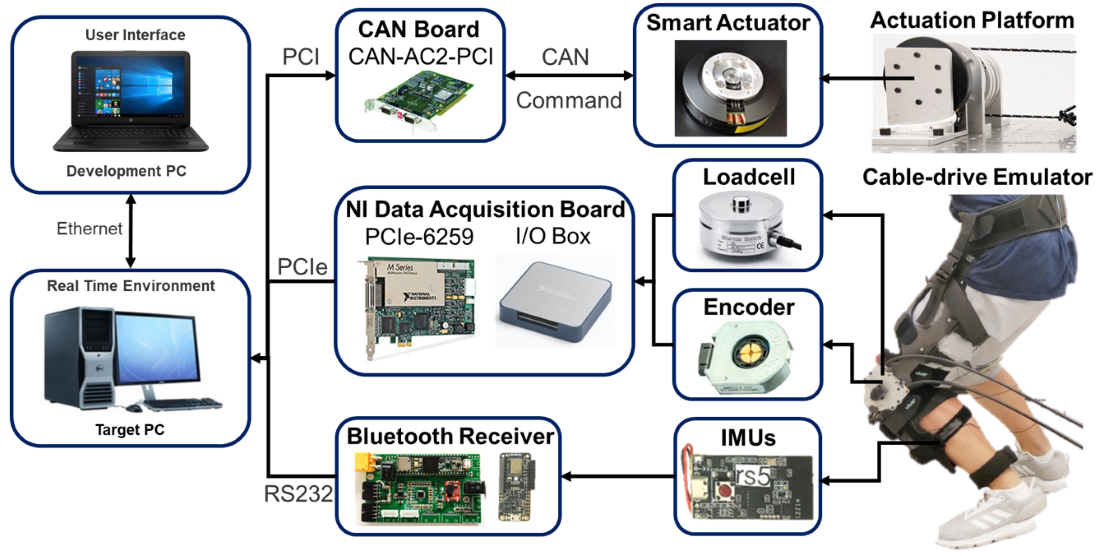
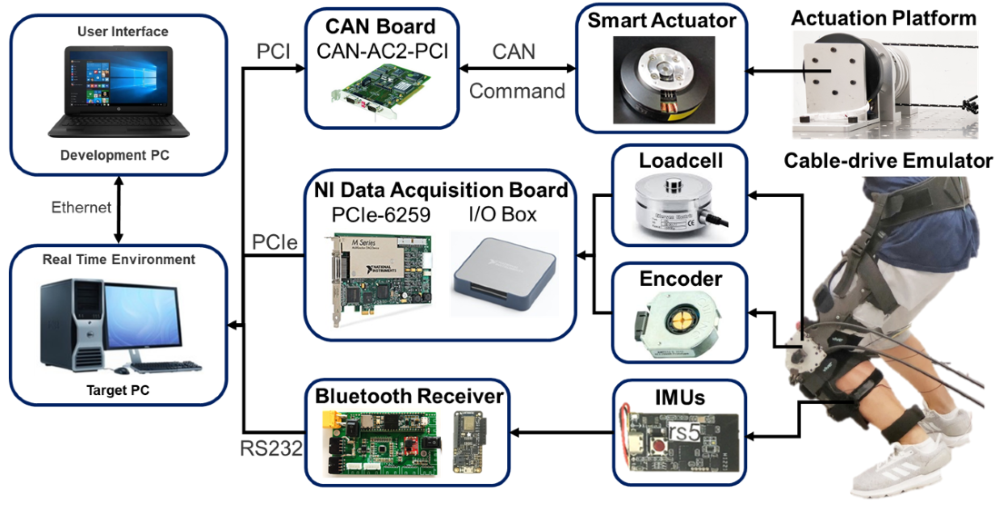
resize pic

diff --git a/about.html b/about.html
@@ -78,7 +78,7 @@
           </li>
           <!--          <li><a href="faq.html">FAQ</a></li>-->
           <!-- <li><a href="blog.html">Blog</a></li> -->
-          <li><a href="contact.html">Contact</a></li>
+<!--          <li><a href="contact.html">Contact</a></li>-->
 <!--          <li><a href="#" class="youtube"><i class="icofont-youtube"></i></a>-->
         </ul>
       </nav><!-- .nav-menu -->

diff --git a/team.html b/team.html
@@ -78,7 +78,7 @@
           </li>
           <!--          <li><a href="faq.html">FAQ</a></li>-->
           <!-- <li><a href="blog.html">Blog</a></li> -->
-          <li><a href="contact.html">Contact</a></li>
+<!--          <li><a href="contact.html">Contact</a></li>-->
 <!--          <li><a href="#" class="youtube"><i class="icofont-youtube"></i></a>-->
         </ul>
       </nav><!-- .nav-menu -->

diff --git a/IMU-sensors.html b/IMU-sensors.html
@@ -86,7 +86,7 @@
           </li>
           <!--          <li><a href="faq.html">FAQ</a></li>-->
           <!-- <li><a href="blog.html">Blog</a></li> -->
-          <li><a href="contact.html">Contact</a></li>
+<!--          <li><a href="contact.html">Contact</a></li>-->
 
         </ul>
       </nav><!-- .nav-menu -->

diff --git a/Loadcell.html b/Loadcell.html
@@ -86,7 +86,7 @@
           </li>
           <!--          <li><a href="faq.html">FAQ</a></li>-->
           <!-- <li><a href="blog.html">Blog</a></li> -->
-          <li><a href="contact.html">Contact</a></li>
+<!--          <li><a href="contact.html">Contact</a></li>-->
 
         </ul>
       </nav><!-- .nav-menu -->

diff --git a/cable-actuator.html b/cable-actuator.html
@@ -86,7 +86,7 @@
           </li>
           <!--          <li><a href="faq.html">FAQ</a></li>-->
           <!-- <li><a href="blog.html">Blog</a></li> -->
-          <li><a href="contact.html">Contact</a></li>
+<!--          <li><a href="contact.html">Contact</a></li>-->
 
         </ul>
       </nav><!-- .nav-menu -->

diff --git a/controller-electronics.html b/controller-electronics.html
@@ -86,7 +86,7 @@
           </li>
           <!--          <li><a href="faq.html">FAQ</a></li>-->
           <!-- <li><a href="blog.html">Blog</a></li> -->
-          <li><a href="contact.html">Contact</a></li>
+<!--          <li><a href="contact.html">Contact</a></li>-->
 
         </ul>
       </nav><!-- .nav-menu -->

diff --git a/high-torque-smart-actuator.html b/high-torque-smart-actuator.html
@@ -86,7 +86,7 @@
           </li>
           <!--          <li><a href="faq.html">FAQ</a></li>-->
           <!-- <li><a href="blog.html">Blog</a></li> -->
-          <li><a href="contact.html">Contact</a></li>
+<!--          <li><a href="contact.html">Contact</a></li>-->
 
         </ul>
       </nav><!-- .nav-menu -->

diff --git a/portable-hip-exoskeleton.html b/portable-hip-exoskeleton.html
@@ -86,7 +86,7 @@
           </li>
           <!--          <li><a href="faq.html">FAQ</a></li>-->
           <!-- <li><a href="blog.html">Blog</a></li> -->
-          <li><a href="contact.html">Contact</a></li>
+<!--          <li><a href="contact.html">Contact</a></li>-->
 
         </ul>
       </nav><!-- .nav-menu -->

diff --git a/products.html b/products.html
@@ -86,7 +86,7 @@
           </li>
           <!--          <li><a href="faq.html">FAQ</a></li>-->
           <!-- <li><a href="blog.html">Blog</a></li> -->
-          <li><a href="contact.html">Contact</a></li>
+<!--          <li><a href="contact.html">Contact</a></li>-->
 
         </ul>
       </nav><!-- .nav-menu -->

diff --git a/tethered-simulink-exoskeleton.html b/tethered-simulink-exoskeleton.html
@@ -87,7 +87,7 @@
           </li>
           <!--          <li><a href="faq.html">FAQ</a></li>-->
           <!-- <li><a href="blog.html">Blog</a></li> -->
-          <li><a href="contact.html">Contact</a></li>
+<!--          <li><a href="contact.html">Contact</a></li>-->
 
         </ul>
       </nav><!-- .nav-menu -->

diff --git a/portable-knee-exoskeleton.html b/portable-knee-exoskeleton.html
@@ -87,7 +87,7 @@
           </li>
           <!--          <li><a href="faq.html">FAQ</a></li>-->
           <!-- <li><a href="blog.html">Blog</a></li> -->
-          <li><a href="contact.html">Contact</a></li>
+
 
         </ul>
       </nav><!-- .nav-menu -->
